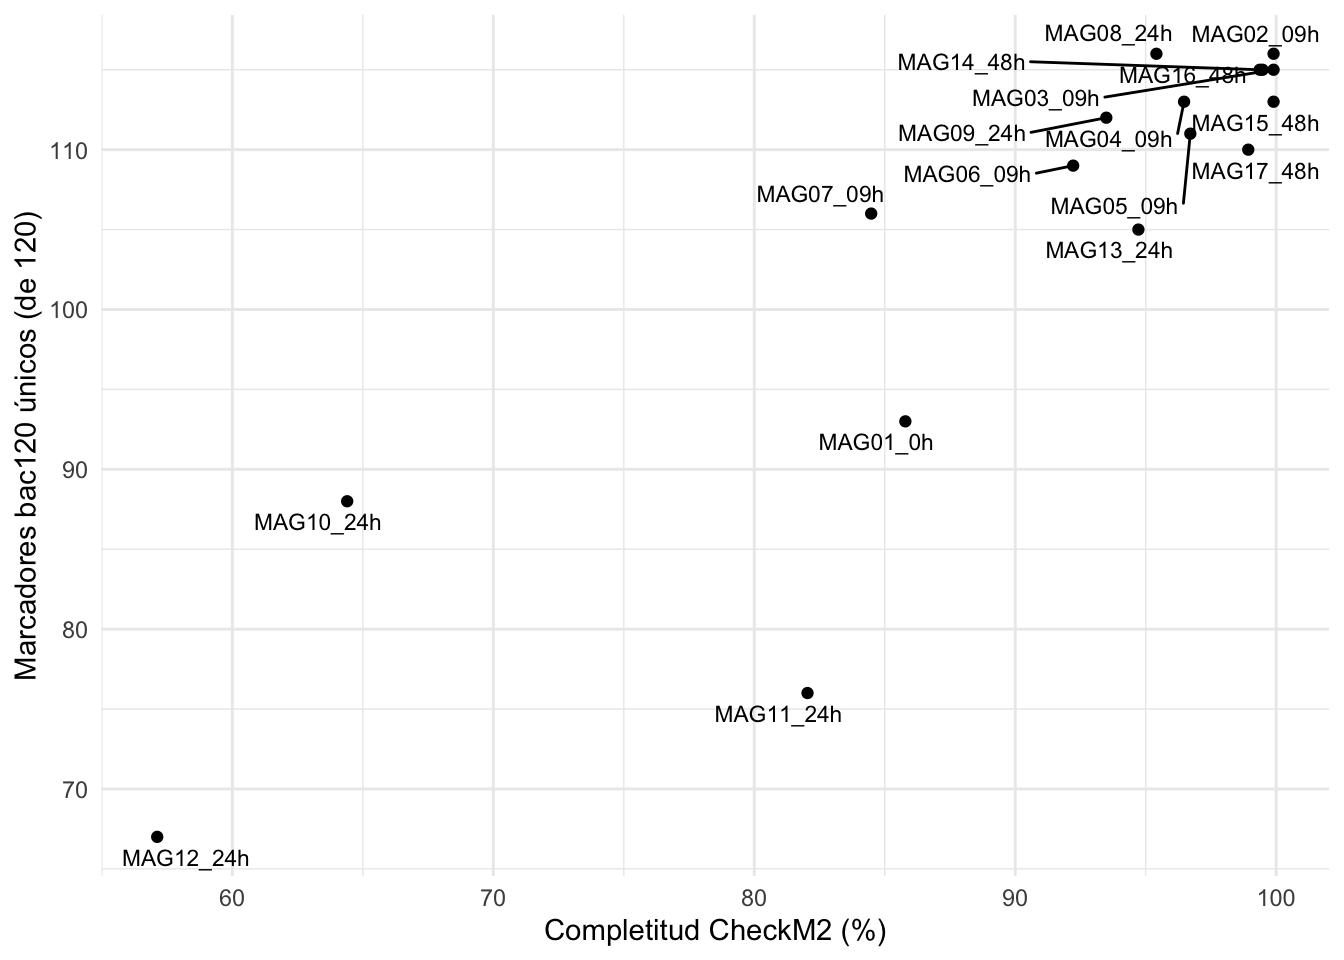
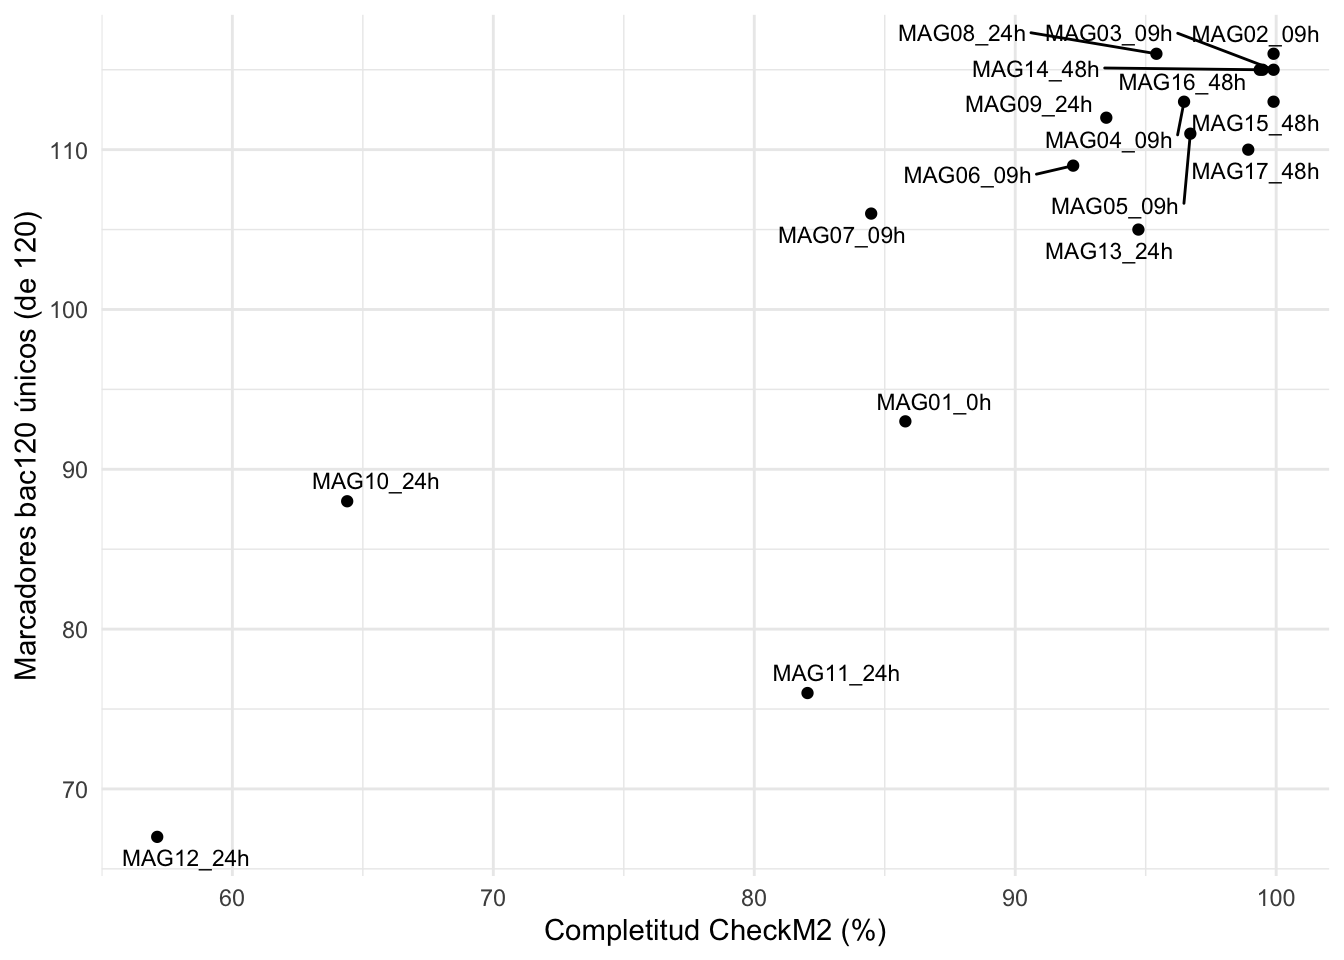
comit metabolismo - daniel

diff --git a/docs/06.Anotacion.html b/docs/06.Anotacion.html
@@ -211,13 +211,19 @@ pre > code.sourceCode > span > a:first-child::before { text-decoration: underlin
   </ul>
 </li>
   <li>
-<a href="#asignaci%C3%B3n-taxon%C3%B3mica" id="toc-asignación-taxonómica" class="nav-link" data-scroll-target="#asignaci%C3%B3n-taxon%C3%B3mica">04. Asignación taxonómica</a>
+<a href="#reconstrucci%C3%B3n-metab%C3%B3lica" id="toc-reconstrucción-metabólica" class="nav-link" data-scroll-target="#reconstrucci%C3%B3n-metab%C3%B3lica">04. Reconstrucción metabólica</a>
   <ul class="collapse">
-<li><a href="#gtdb-tk" id="toc-gtdb-tk" class="nav-link" data-scroll-target="#gtdb-tk">04.1 GTDB-tk</a></li>
+<li><a href="#herramientas-para-reconstrucci%C3%B3n-metab%C3%B3lica" id="toc-herramientas-para-reconstrucción-metabólica" class="nav-link" data-scroll-target="#herramientas-para-reconstrucci%C3%B3n-metab%C3%B3lica">04.1. Herramientas para reconstrucción metabólica</a></li>
   </ul>
 </li>
   <li>
-<a href="#filogen%C3%B3mica" id="toc-filogenómica" class="nav-link" data-scroll-target="#filogen%C3%B3mica">05. Filogenómica</a>
+<a href="#asignaci%C3%B3n-taxon%C3%B3mica" id="toc-asignación-taxonómica" class="nav-link" data-scroll-target="#asignaci%C3%B3n-taxon%C3%B3mica">05. Asignación taxonómica</a>
+  <ul class="collapse">
+<li><a href="#gtdb-tk" id="toc-gtdb-tk" class="nav-link" data-scroll-target="#gtdb-tk">05.1 GTDB-tk</a></li>
+  </ul>
+</li>
+  <li>
+<a href="#filogen%C3%B3mica" id="toc-filogenómica" class="nav-link" data-scroll-target="#filogen%C3%B3mica">06. Filogenómica</a>
   <ul class="collapse">
 <li><a href="#objetivos" id="toc-objetivos" class="nav-link" data-scroll-target="#objetivos">Objetivos</a></li>
   <li><a href="#conceptos-clave" id="toc-conceptos-clave" class="nav-link" data-scroll-target="#conceptos-clave">Conceptos clave</a></li>
@@ -226,8 +232,8 @@ pre > code.sourceCode > span > a:first-child::before { text-decoration: underlin
   <li>
 <a href="#pr%C3%A1ctica" id="toc-práctica" class="nav-link" data-scroll-target="#pr%C3%A1ctica">Práctica</a>
   <ul class="collapse">
-<li><a href="#insumos-necesarios" id="toc-insumos-necesarios" class="nav-link" data-scroll-target="#insumos-necesarios">03.1 Insumos necesarios</a></li>
-  <li><a href="#marcadores-identificaci%C3%B3n" id="toc-marcadores-identificación" class="nav-link" data-scroll-target="#marcadores-identificaci%C3%B3n">03.2 Marcadores: identificación</a></li>
+<li><a href="#insumos-necesarios" id="toc-insumos-necesarios" class="nav-link" data-scroll-target="#insumos-necesarios">06.1 Insumos necesarios</a></li>
+  <li><a href="#marcadores-identificaci%C3%B3n" id="toc-marcadores-identificación" class="nav-link" data-scroll-target="#marcadores-identificaci%C3%B3n">06.2 Marcadores: identificación</a></li>
   <li><a href="#alineamiento-de-marcadores" id="toc-alineamiento-de-marcadores" class="nav-link" data-scroll-target="#alineamiento-de-marcadores">03.3 Alineamiento de marcadores</a></li>
   <li><a href="#%C3%A1rbol-de-m%C3%A1xima-verosimilitud" id="toc-árbol-de-máxima-verosimilitud" class="nav-link" data-scroll-target="#%C3%A1rbol-de-m%C3%A1xima-verosimilitud">03.4 Árbol de máxima verosimilitud</a></li>
   <li><a href="#leer-y-enraizar-el-%C3%A1rbol" id="toc-leer-y-enraizar-el-árbol" class="nav-link" data-scroll-target="#leer-y-enraizar-el-%C3%A1rbol">03.5 Leer y enraizar el árbol</a></li>
@@ -748,8 +754,33 @@ Caution
 <p>Los Clústeres de Genes Biosintéticos (BGCs) son un tipo de operón, que a veces pueden ser parte de una isla genomica. A pesar de que los productos que generan no son estrictamente necesarios para la supervivencia del organismo (metabolismo secundario), son bastante útiles para mejorar el “fitness” del mismo.</p>
 <p><a href="https://antismash.secondarymetabolites.org/#!/start">antiSMASH</a> usa modelos ocultos de Markov que permiten identificar los grupos de genes contenidos en las secuencias genómicas que codifican BGCs de todas las clases químicas conocidas.</p>
 <p>Si te interesa saber más a fondo cómo anotar BGCs en los genomas de tu interés puedes aprender siguiendo el flujo de análisis propuestos en la lección de <a href="https://carpentries-incubator.github.io/genome-mining/">Minería Genómica</a> de Software Carpentry.</p>
-</section></section><section id="asignación-taxonómica" class="level2"><h2 class="anchored" data-anchor-id="asignación-taxonómica">04. Asignación taxonómica</h2>
-<section id="gtdb-tk" class="level3"><h3 class="anchored" data-anchor-id="gtdb-tk">04.1 GTDB-tk</h3>
+</section></section><section id="reconstrucción-metabólica" class="level2"><h2 class="anchored" data-anchor-id="reconstrucción-metabólica">04. Reconstrucción metabólica</h2>
+<p>Una vez que hemos asignado identificadores funcionales, como los números KO, a las secuencias de nuestro MAG, el siguiente paso es realizar una reconstrucción metabólica. Este proceso consiste en integrar esas anotaciones individuales dentro de redes bioquímicas para inferir las capacidades de nuestro microorganismo, su posible importancia ecológico y su estilo de vida. Por ejemplo, con la reconstrucción metabólica podemos saber su tipo de respiración, si tiene la capacidad de fijación de nitrógeno o las vías de síntesis de aminoácidos que utiliza.</p>
+<div class="quarto-figure quarto-figure-center">
+<figure class="figure"><p><img src="Figures/tca-bacteria.png" class="img-fluid quarto-figure quarto-figure-center figure-img" width="1044"></p>
+</figure>
+</div>
+<p>La reconstrucción metabólica va más allá de un simple conteo de genes, estando más enfocada en evaluar el contexto de las vías bioquímicas a través de un proceso de 4 etapas:</p>
+<ol type="1">
+<li><p><strong>Mapeo a redes de referencia:</strong> Se relacionan los números KO, EC o Reactome anotados con mapas metabólicos globales estandarizados (como KEGG Pathways, KEGG Modules, MetaCyc o BioCyc).</p></li>
+<li><p><strong>Evaluación de completitud de módulos (Pathway Completeness):</strong> Se determina qué porcentaje de los pasos secuenciales de una ruta metabólica está presente en el genoma. Un módulo se considera funcionalmente completo si cuenta con todas las enzimas clave del bloque sintético o degradativo.</p></li>
+<li><p><strong>Análisis de brechas (Gap-filling):</strong> Identifica pasos ausentes en una ruta. Si a un operón o vía lineal le falta una sola enzima intermedia, esta ausencia puede deberse a la fragmentación del ensamblaje del MAG (cobertura incompleta del genoma) o a que el organismo utiliza una variante enzimática no canónica.</p></li>
+<li><p><strong>Inferencia de fenotipos y perfiles biogeoquímicos:</strong> Agrupa las vías en grandes categorías ecológicas como el ciclo del nitrógeno (desnitrificación, anammox, fijación), ciclo del azufre, metanogénesis, fijación de carbono y resistencia a metales pesados.</p></li>
+</ol>
+<section id="herramientas-para-reconstrucción-metabólica" class="level3"><h3 class="anchored" data-anchor-id="herramientas-para-reconstrucción-metabólica">04.1. Herramientas para reconstrucción metabólica</h3>
+<p>Hacer la reconstrucción del metabolismo a mano es increíblemente laborioso y pesado. Por eso se usan herramientas bioinformaticas para semi-automatizar este proceso a partir de archivos de anotación (<em>.gff3, .faa</em> o tablas de <em>eggNOG/KEGG</em>). Entre las herramientas más útiles para esto se encuentran las siguientes:</p>
+<ol type="1">
+<li><p><strong>KEGG Mapper / Reconstruct:</strong> Interfaz que toma listas de identificadores KO y colorea las rutas metabólicas de KEGG, permitiendo visualizar qué nodos de la red están presentes en tu organismo.</p></li>
+<li><p><strong>METABOLIC:</strong> Es un pipeline de linea de comando que integra la anotación funcional con la cobertura metagenómica para cuantificar la contribución potencial de cada MAG a los ciclos biogeoquímicos globales.</p></li>
+<li><p><strong>MicrobeAnnotator:</strong> Pipeline similar a METABOLIC, que extrae anotaciones de múltiples bases de datos para calcular porcentajes de completitud de módulos de KEGG y rutas metabólicas generales.</p></li>
+<li><p><strong>RbiMs (Reconstruction of Bin Metabolisms):</strong> Un paquete de R especializado en la integración, perfilamiento y visualización de vías metabólicas para MAGs. Importa directamente los resultados de anotación (KEGG vía KofamScan, dbCAN, InterProScan, etc.), calcula el porcentaje de cobertura de cada vía y permite extraer subconjuntos de datos metabólicos de manera programática. Al correr de forma nativa en R, facilita la integración de metadatos experimentales, la generación de gráficas y la aplicación de análisis para identificar vías diferencialmente enriquecidas.</p></li>
+</ol>
+<div class="quarto-figure quarto-figure-center">
+<figure class="figure"><p><img src="Figures/rbims.png" class="img-fluid quarto-figure quarto-figure-center figure-img" width="944"></p>
+</figure>
+</div>
+</section></section><section id="asignación-taxonómica" class="level2"><h2 class="anchored" data-anchor-id="asignación-taxonómica">05. Asignación taxonómica</h2>
+<section id="gtdb-tk" class="level3"><h3 class="anchored" data-anchor-id="gtdb-tk">05.1 GTDB-tk</h3>
 <p>GTDB-Tk es una herramienta que asigna taxonomía a genomas utilizando la base de datos <a href="https://gtdb.ecogenomic.org/">GTDB</a> (Genome Taxonomy Database). Basado en árboles filogenéticos y medidas de ANI (Average Nucleotide Identity), GTDB-Tk clasifica genomas bacterianos y arqueanos, proporciona una taxonomía coherente y actualizada. Se utiliza mucho en el análisis de genomas y metagenomas.</p>
 <div class="quarto-figure quarto-figure-center">
 <figure class="figure"><p><img src="Figures/GTDB-tk_worflow.png" class="img-fluid quarto-figure quarto-figure-center figure-img" width="944"></p>
@@ -793,7 +824,7 @@ Caution
 <span id="cb21-4"><a href="#cb21-4" aria-hidden="true" tabindex="-1"></a>  <span class="at">--out_dir</span> results/13.gtdbtk/0h/ <span class="dt">\</span></span>
 <span id="cb21-5"><a href="#cb21-5" aria-hidden="true" tabindex="-1"></a>  <span class="at">--cpus</span> 6 <span class="dt">\</span></span>
 <span id="cb21-6"><a href="#cb21-6" aria-hidden="true" tabindex="-1"></a>  <span class="at">-x</span> fasta <span class="op">&gt;</span> outs/13.gtdbtk0h.out <span class="kw">&amp;</span></span></code></pre></div><button title="Copy to Clipboard" class="code-copy-button"><i class="bi"></i></button></div>
-</section></section><section id="filogenómica" class="level2"><h2 class="anchored" data-anchor-id="filogenómica">05. Filogenómica</h2>
+</section></section><section id="filogenómica" class="level2"><h2 class="anchored" data-anchor-id="filogenómica">06. Filogenómica</h2>
 <p>La sección anterior termina con una tabla de taxonomía para cada MAG del pozol. Este módulo va un paso más allá: construye un árbol con los mismos genes marcadores que usa GTDB-Tk, lo lee de forma crítica y lo compara con esa taxonomía.</p>
 <p><strong>Pregunta guía:</strong> <em>¿qué tan bien concuerda la taxonomía asignada a los MAGs con su filogenia, y cuánta confianza podemos darle a esa comparación?</em></p>
 <section id="objetivos" class="level3"><h3 class="anchored" data-anchor-id="objetivos">Objetivos</h3>
@@ -812,7 +843,7 @@ Caution
 <p><strong>Enraizar.</strong> Un árbol sin raíz no indica qué linaje divergió primero. Para leerlo en una dirección se elige un grupo externo.</p>
 <p><strong>Un dato para la comparación.</strong> La taxonomía de GTDB se definió sobre un árbol de genomas construido con estos mismos marcadores.</p>
 <hr></section></section><section id="práctica" class="level2"><h2 class="anchored" data-anchor-id="práctica">Práctica</h2>
-<section id="insumos-necesarios" class="level3"><h3 class="anchored" data-anchor-id="insumos-necesarios">03.1 Insumos necesarios</h3>
+<section id="insumos-necesarios" class="level3"><h3 class="anchored" data-anchor-id="insumos-necesarios">06.1 Insumos necesarios</h3>
 <p>Partimos de lo que ya produjo el taller:</p>
 <ul>
 <li><p><strong>Los 17 MAGs desreplicados</strong></p></li>
@@ -823,7 +854,7 @@ Caution
 <li>
 <strong>Ambientes.</strong> Esta práctica usa dos ambientes de conda que ya están instalados en el servidor: <code>gtdbtk</code> (pasos 2 y 3) y <code>qiime2</code> (paso 4). Para R se usan los paquetes <code>tidyverse</code>, <code>ape</code> y <code>ggrepel</code>. En cada paso de terminal se indica cuándo activar y desactivar el ambiente.</li>
 </ul>
-<hr></section><section id="marcadores-identificación" class="level3"><h3 class="anchored" data-anchor-id="marcadores-identificación">03.2 Marcadores: identificación</h3>
+<hr></section><section id="marcadores-identificación" class="level3"><h3 class="anchored" data-anchor-id="marcadores-identificación">06.2 Marcadores: identificación</h3>
 <p>Vamos a buscar en cada MAG los 120 genes marcadores que GTDB-Tk usa para clasificar. Primero activamos el ambiente de GTDB-Tk:</p>
 <div class="cell">
 <div class="code-copy-outer-scaffold"><div class="sourceCode cell-code" id="cb22"><pre class="sourceCode bash code-with-copy"><code class="sourceCode bash"><span id="cb22-1"><a href="#cb22-1" aria-hidden="true" tabindex="-1"></a><span class="ex">conda</span> activate gtdbtk</span></code></pre></div><button title="Copy to Clipboard" class="code-copy-button"><i class="bi"></i></button></div>
